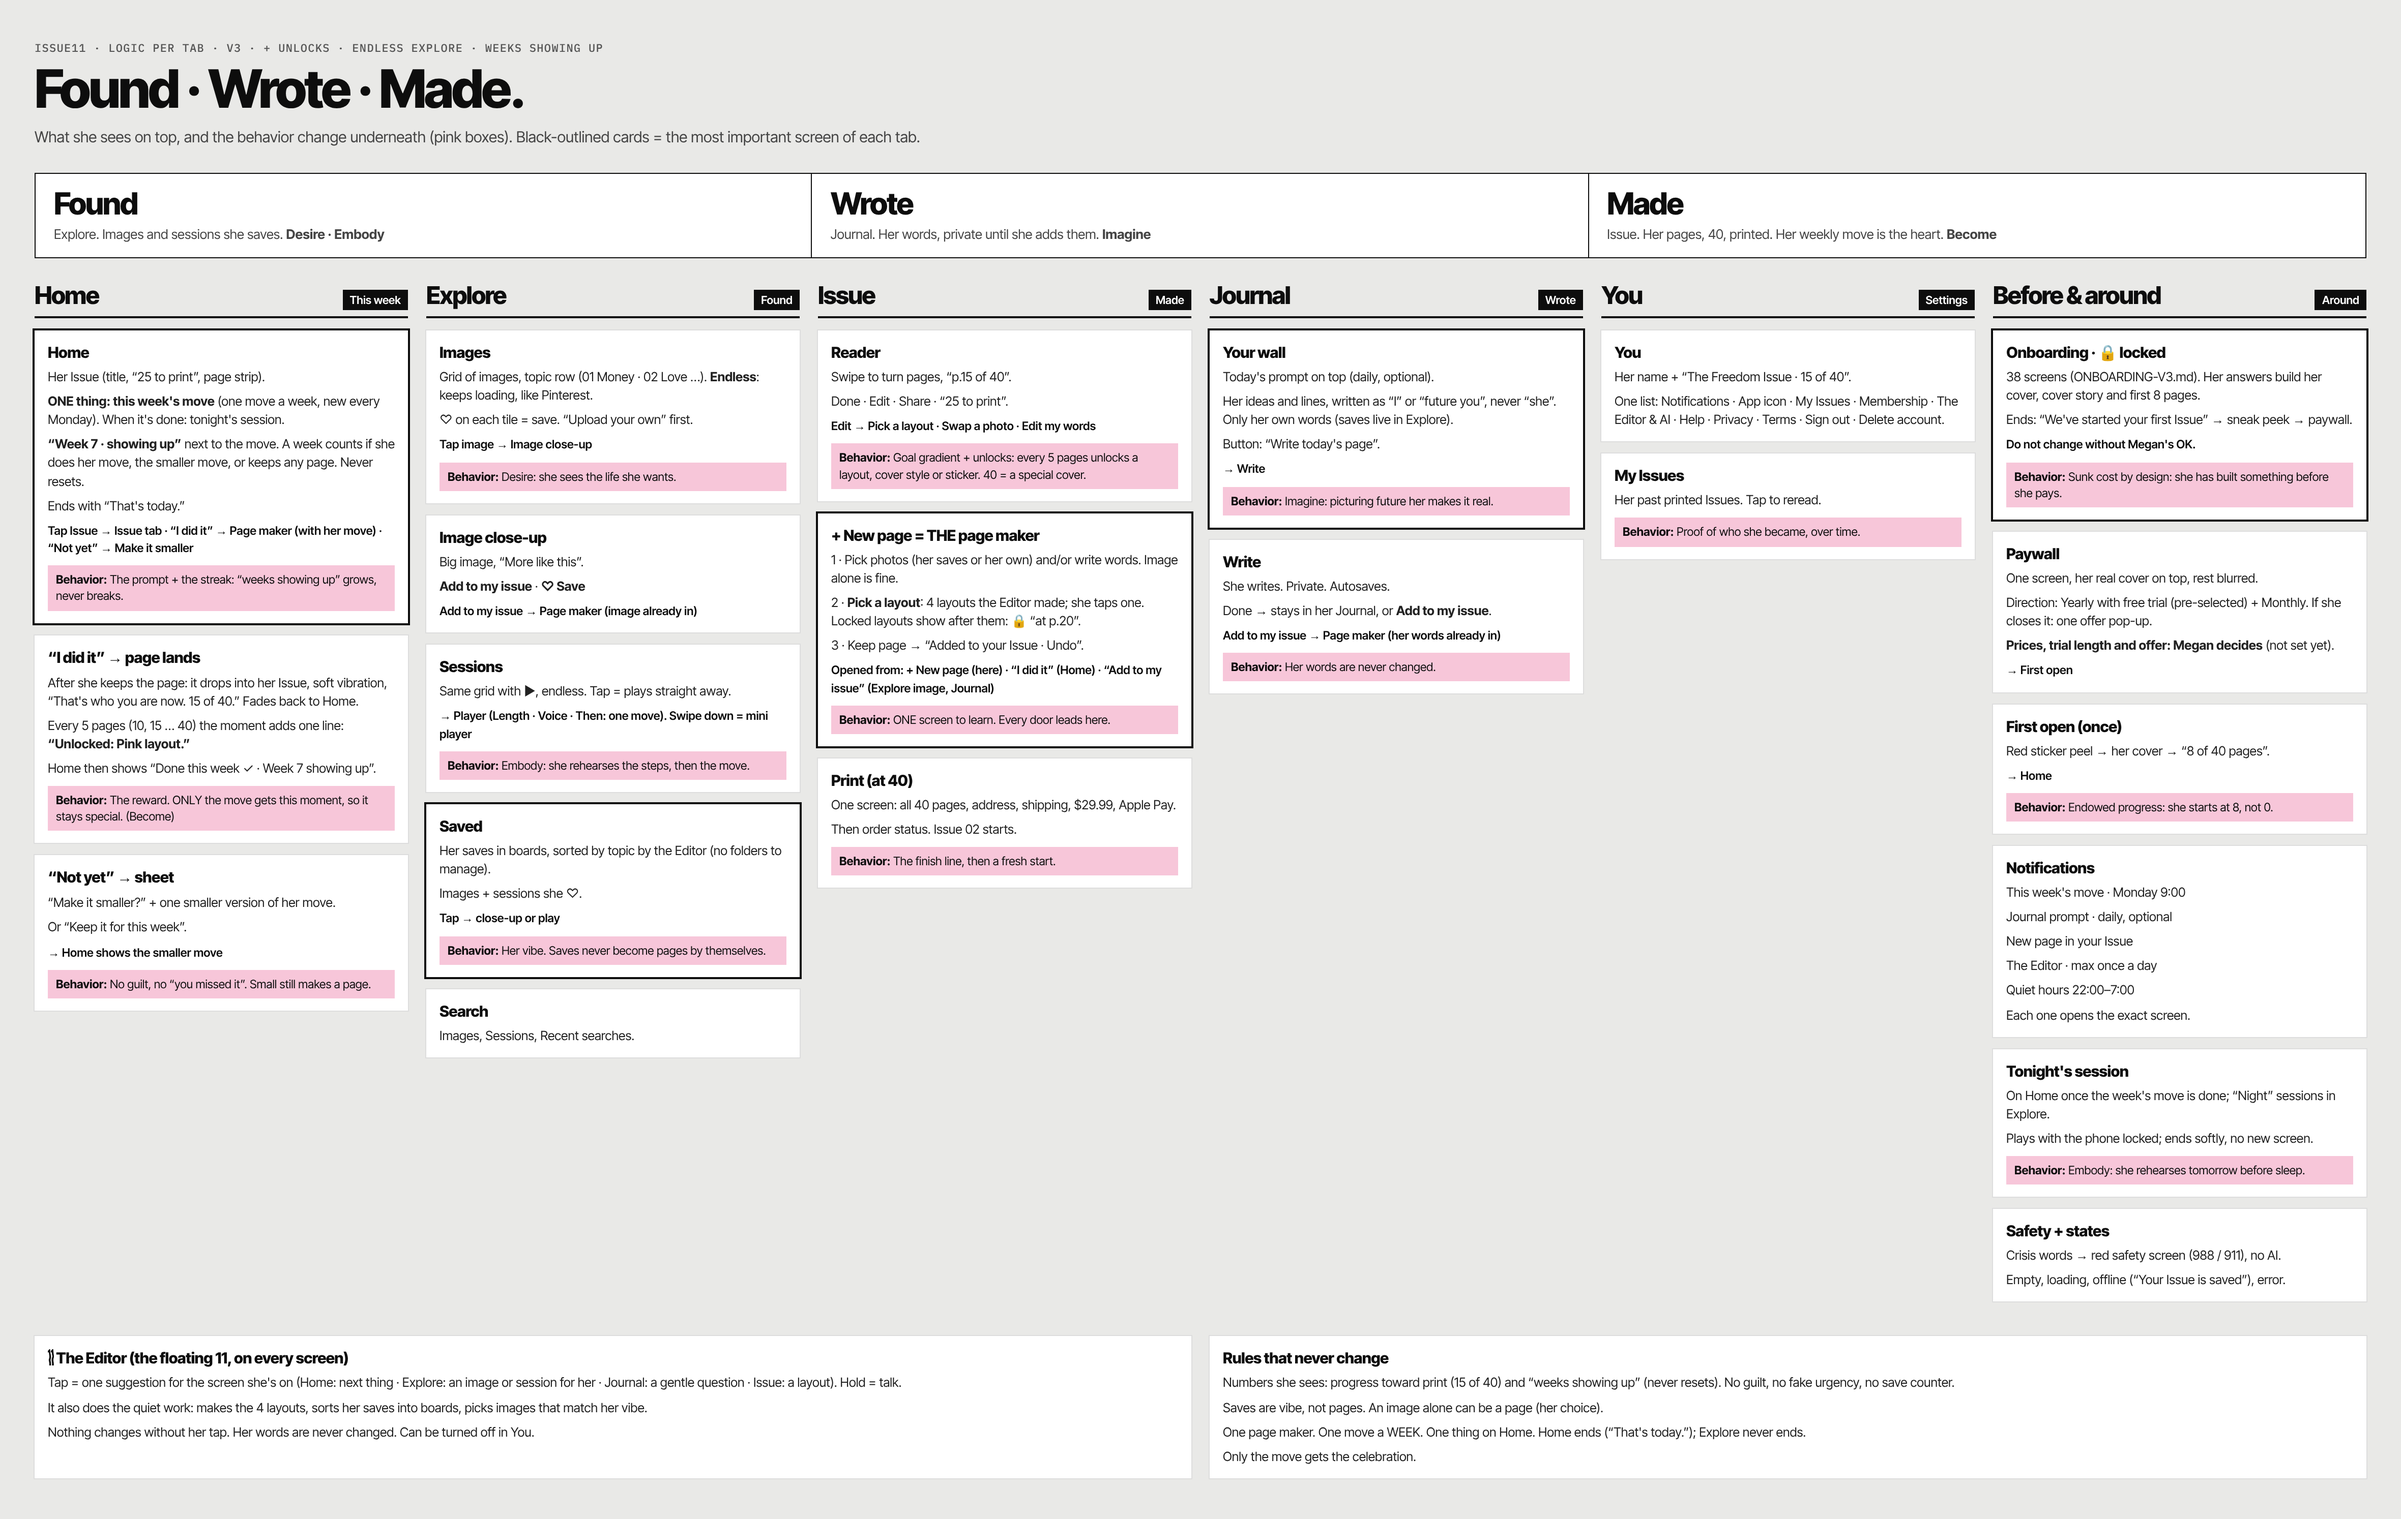
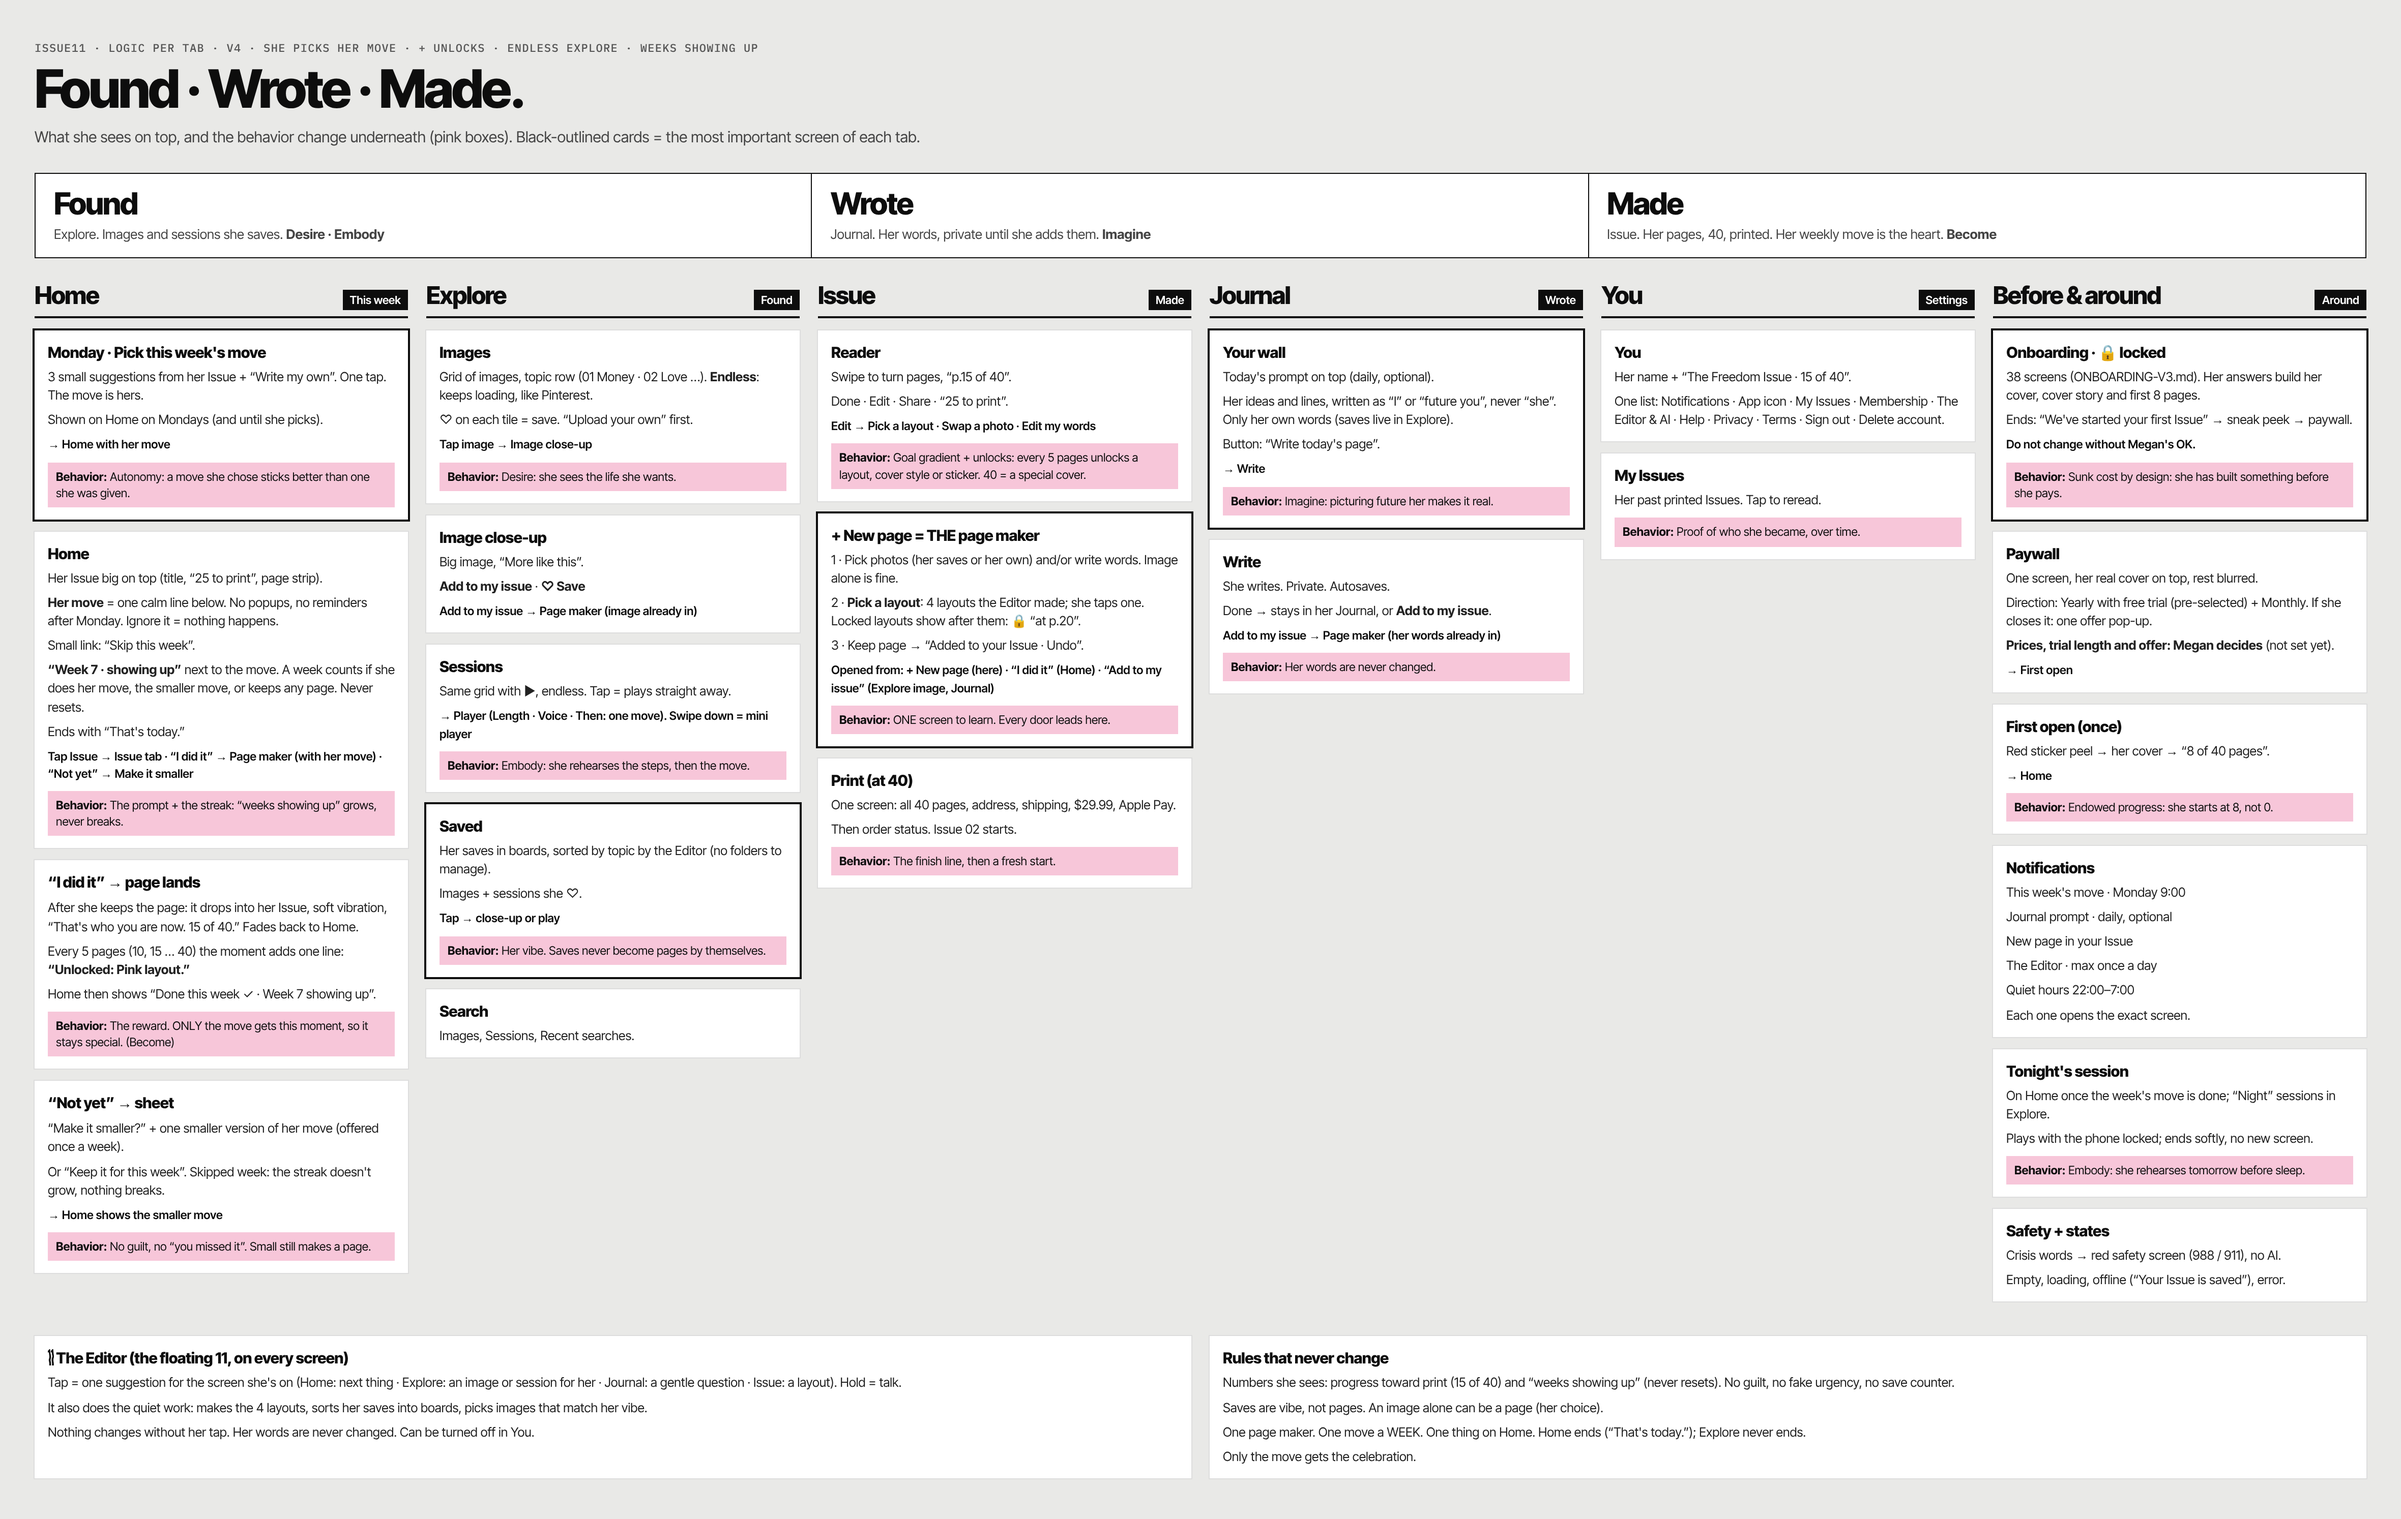
Logic v4: she picks her move, quiet Home, skip week (Megan)
Claude-Session: https://claude.ai/code/session_01HCgzu1bLkXZtMXzNdijEkV

Changed region(s): [[0.0, 0.2179, 0.1869, 0.8404]]

diff --git a/design/brand-revamp/26-logic-per-tab.html b/design/brand-revamp/26-logic-per-tab.html
@@ -14,4 +14,4 @@ h1{font:800 52px/1 'Inter Tight';letter-spacing:-.045em;margin:8px 0 10px}.sub{f
 .go{font:600 11.5px/1.5 'Inter Tight';margin-top:7px;color:#0d0d0d}
 .why{font:11.5px/1.4 'Inter Tight';margin-top:8px;padding:6px 8px;background:#F7C6D9;}
 .why i{font-style:normal;font-weight:700}
[2 lines of base64/hex data omitted]

diff --git a/.pipeline/lessons.md b/.pipeline/lessons.md
@@ -193,3 +193,4 @@ Format: `- YYYY-MM-DD · <agent> · <what> · why · cost`
 - 2026-10-23 (Design Room): Megan sent 6 contradictions + "Before & around" column. Fixed: rule = "No streaks. The only number is progress toward print" (no save counter); "Pin to my wall" → "♡ Save" everywhere; no third person in her words ("Didn't reread it nine times"); weekly move wording ("This week's move · Week 06", notifications Monday 9:00, Journal prompt daily + optional); headlines lighter (Inter Tight 700, -0.035em); floating 11 safe zone = bottom CTA ends 64px from the right so the 11 sits beside it, never over it. Board 26 v2 has the 6th column (onboarding locked, paywall prices = Megan, first open, notifications, tonight's session, safety/states). Lesson: after a rule changes, sweep every board and the prompt for the old wording.
 - 2026-10-23 (Design Room) RULES, Megan word for word: "Now how can we make the app addictive while keeping its simplicity" → "No i want addicted" → "3. unlocks 6. endless explore / Yes streaks". Replaces "no streaks" and "no endless feeds". Logic map v3: "weeks showing up" streak (never resets, no loss messages), unlocks every 5 pages (layout / cover style / sticker; 40 = special cover), Explore Images + Sessions endless (Home still ends). Still held (trust + Apple): no fake urgency, no guilt notifications, cancel always easy. Not chosen (parked): 11:11 daily surprise, own words read aloud, blurred next page, share in our look.
 - 2026-10-23 (Design Room) DECISION, Megan word for word: "Ok let's not integrate Pinterest" (after: "2. shared images are for inspiration only? No"). No Pinterest login, no API, no "Share to ISSUE11" from Pinterest at launch. Printed pages = her own uploaded photos + Megan's own Explore library. Reason: Pinterest developer terms (no apps whose primary purpose is collecting/transferring others' Pins without written consent) + copyright risk of printing others' photos in a sold product (e.g. Greg Young Publishing v. Zazzle). If revisited: lawyer review first (rights checkbox, ToS warranty, takedown process, printer rules).
+- 2026-10-23 (Design Room) Megan: "I don't understand the Home Logic" → "I wonder if that will annoy her" → "Ok good options". Home logic v4: Monday "Pick this week's move" (3 suggestions from her Issue + "Write my own"); the move is one calm line under her big Issue; no reminders after Monday; ignoring it = nothing happens; "Make it smaller" offered once a week; "Skip this week" link; skipped week = streak doesn't grow, nothing breaks. Lesson: explain logic to Megan as "one week in her life" (day-by-day table); it landed better than the map.
